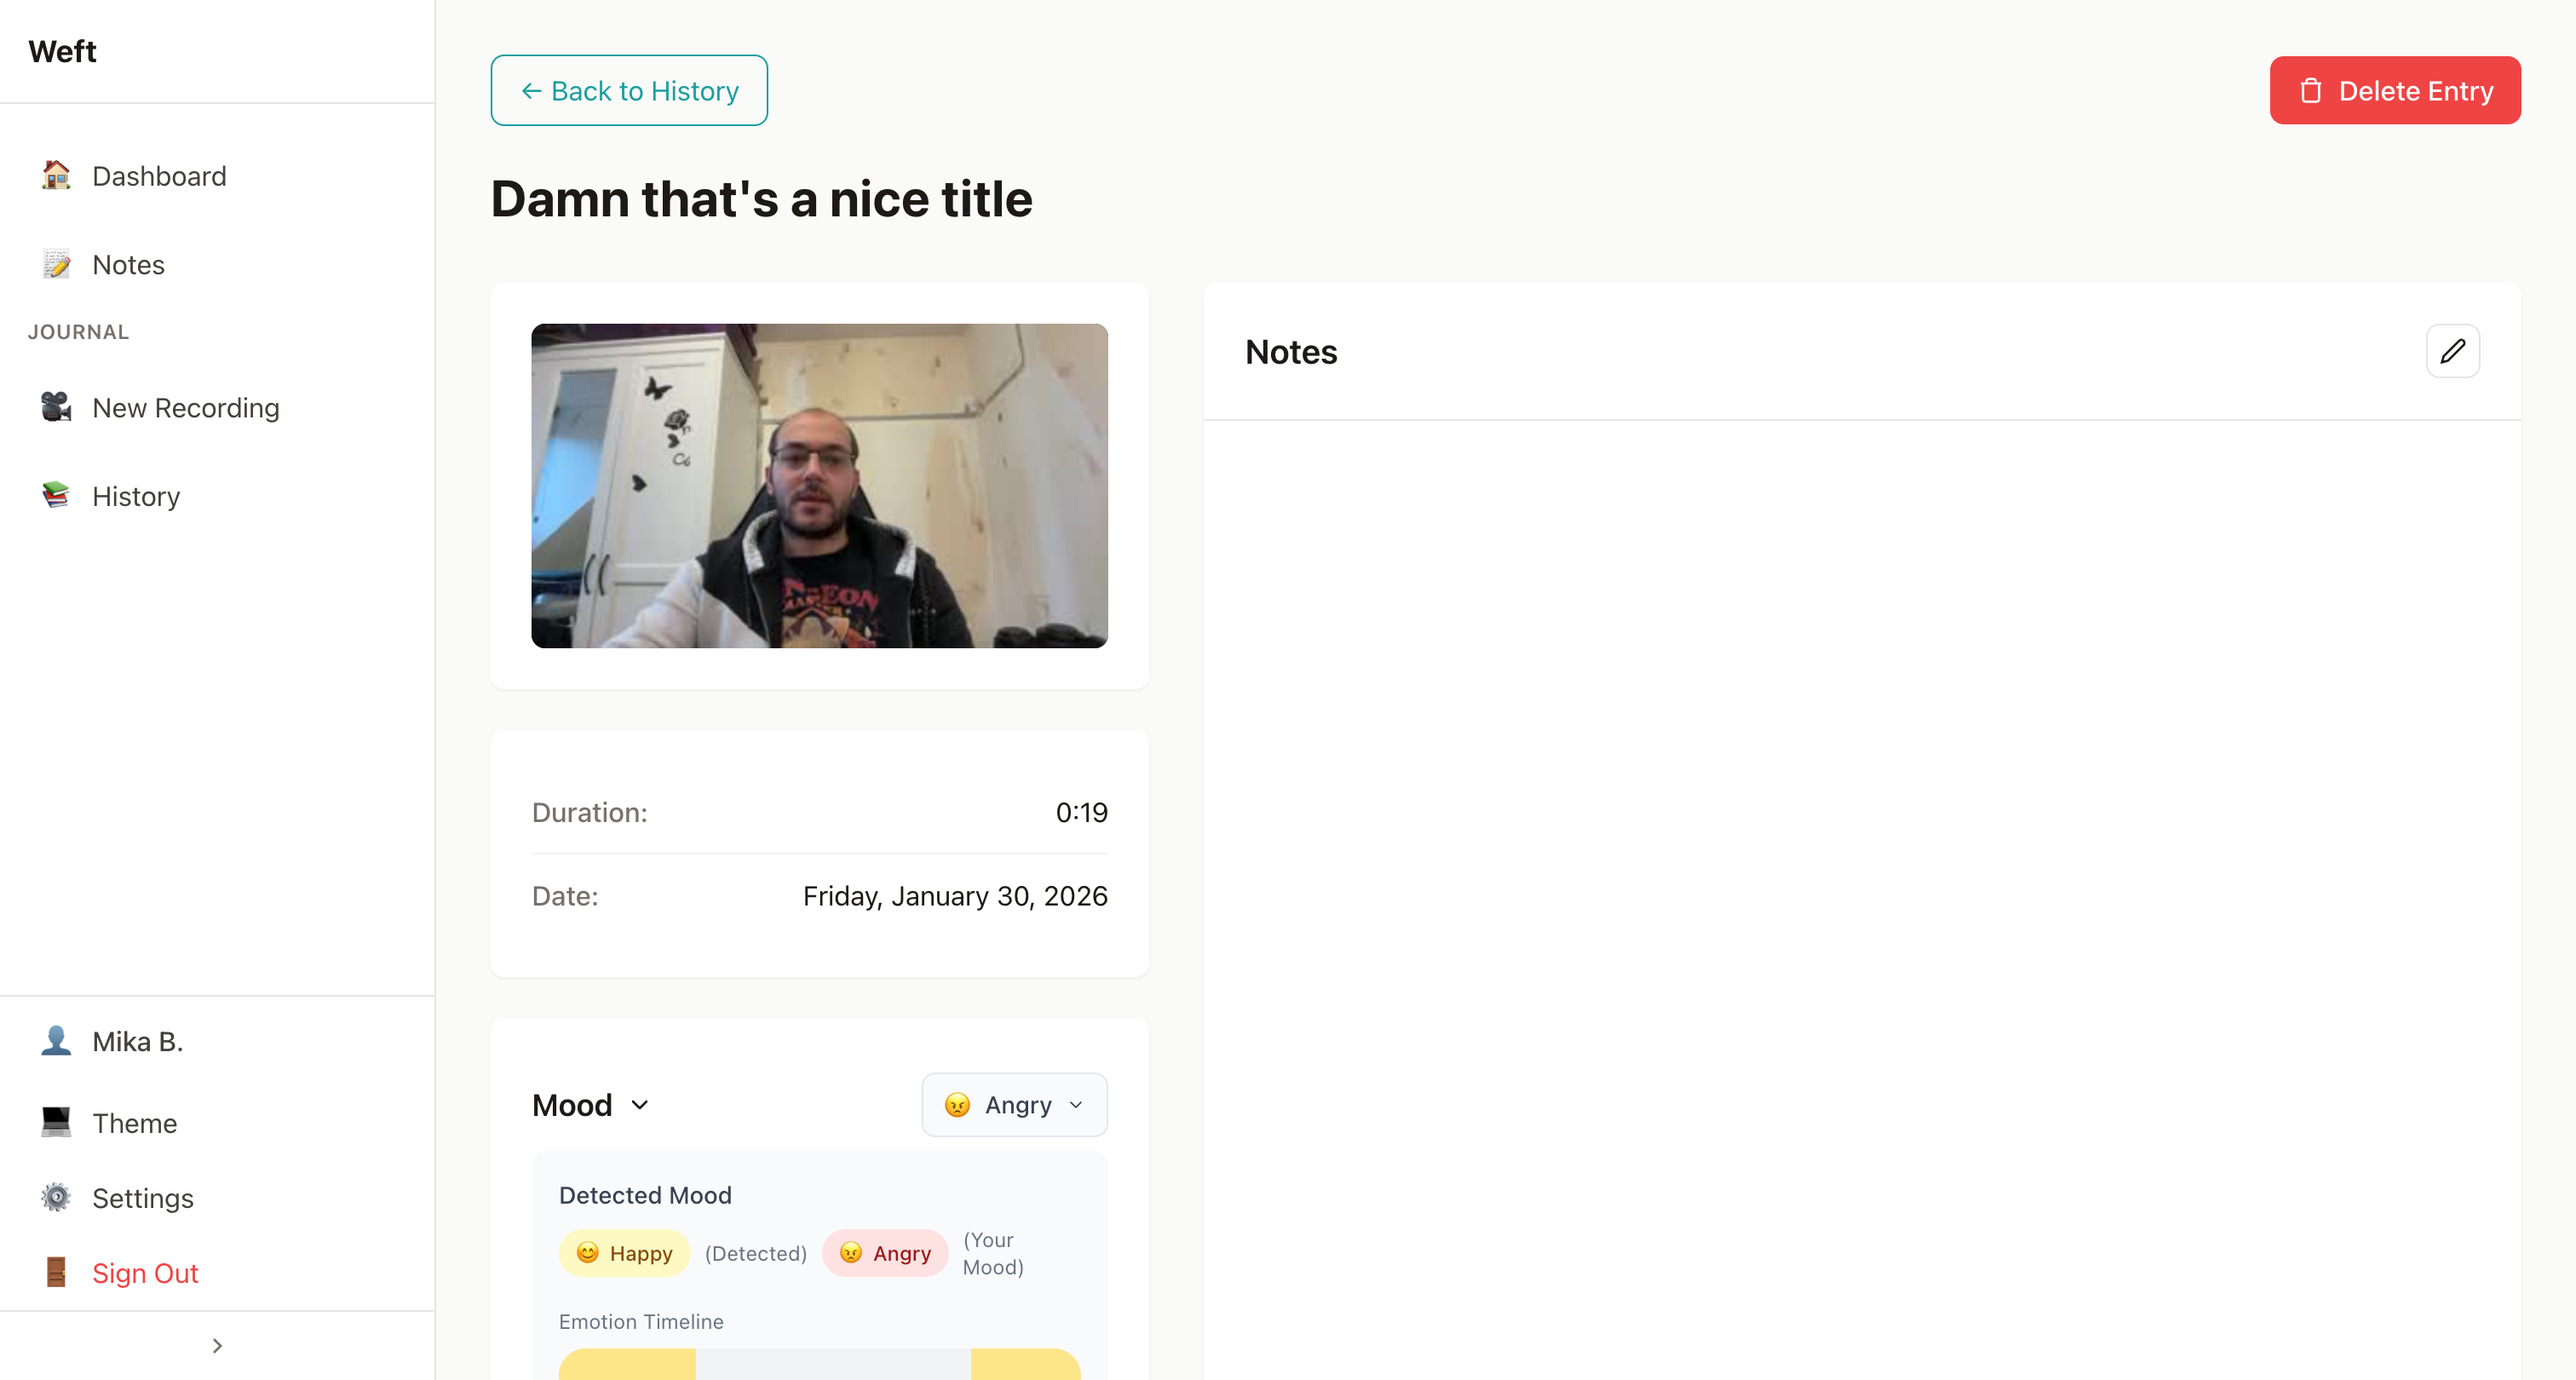
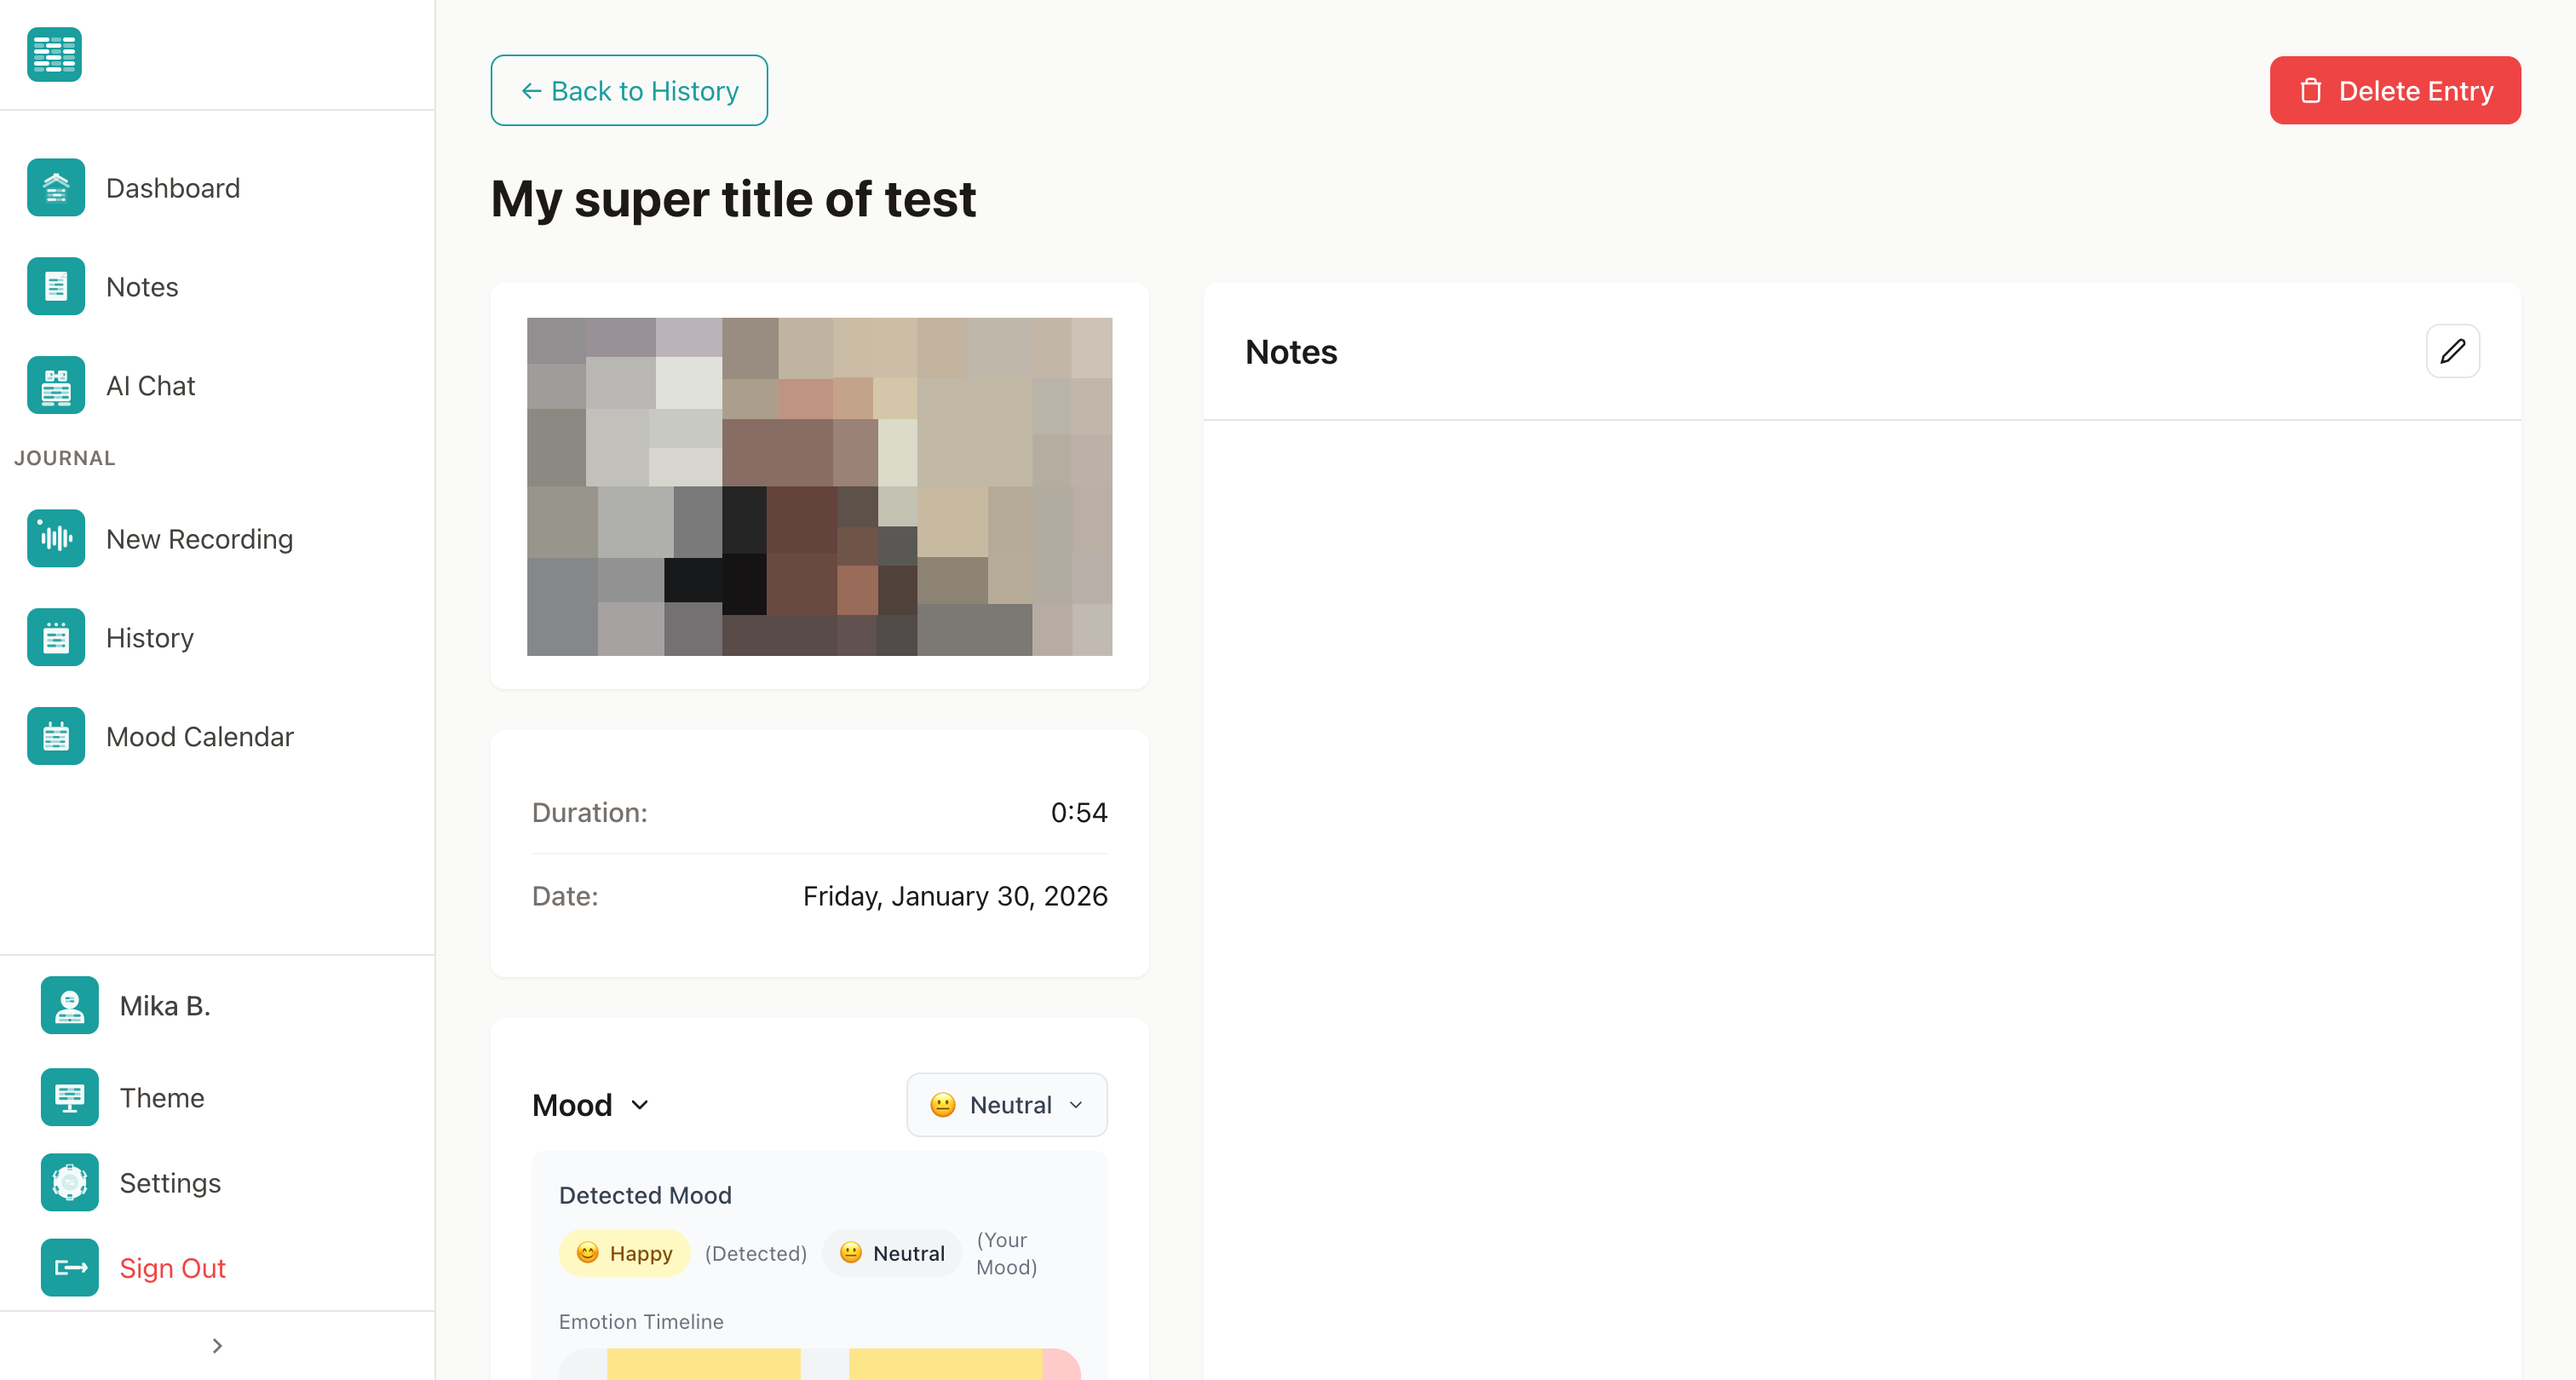
Update screenshots

diff --git a/README.MD b/README.MD
@@ -19,6 +19,7 @@
 ![Recording](screenshots/03-recording.png)
 ![Mood Calendar](screenshots/06-mood-calendar.png)
 ![Journal Detail](screenshots/05-journal-detail.png)
+![AI Chat](screenshots/08-ai-chat.png)
 
 ## Features
 
@@ -27,6 +28,7 @@
 - **Emotion Detection** - Multimodal (facial + vocal) analysis with real-time timeline visualization
 - **Mood Tracking** - Daily mood calendar with morning/afternoon tracking, 11 emotion options, notes, and statistics
 - **Notes System** - Hierarchical organization, templates, slash commands, markdown editing
+- **AI Chat** - Context-aware assistant with tool access to notes, journals, moods, and transcripts
 - **HLS Video Playback** - With transcript sync and emotion analysis per entry
 - **Authentication** - BetterAuth with database session management
 
@@ -38,6 +40,7 @@
 | TypeScript 5.7 | Drizzle ORM | face-api.js | pnpm |
 | Vite 6 | PostgreSQL 16 | SpeechBrain | Docker |
 | HLS.js | BetterAuth | FFmpeg | |
+| | | Mastra | |
 
 ## Quick Start
 
@@ -117,6 +120,11 @@ DATABASE_URL=postgresql://user:password@host:5432/weft
 BETTER_AUTH_SECRET=your-secret-key
 BETTER_AUTH_URL=http://localhost:3001
 FRONTEND_URL=http://localhost:3000
+MASTRA_PROVIDER=ollama
+OLLAMA_BASE_URL=http://192.168.5.104:11434
+MASTRA_DEFAULT_MODEL=ollama/qwen3:30b
+OLLAMA_THINKING=true
+OLLAMA_MAX_STEPS=10
 ```
 
 For Docker deployments, see [spec/DOCKER.md](./spec/DOCKER.md) for the full list of environment variables.
